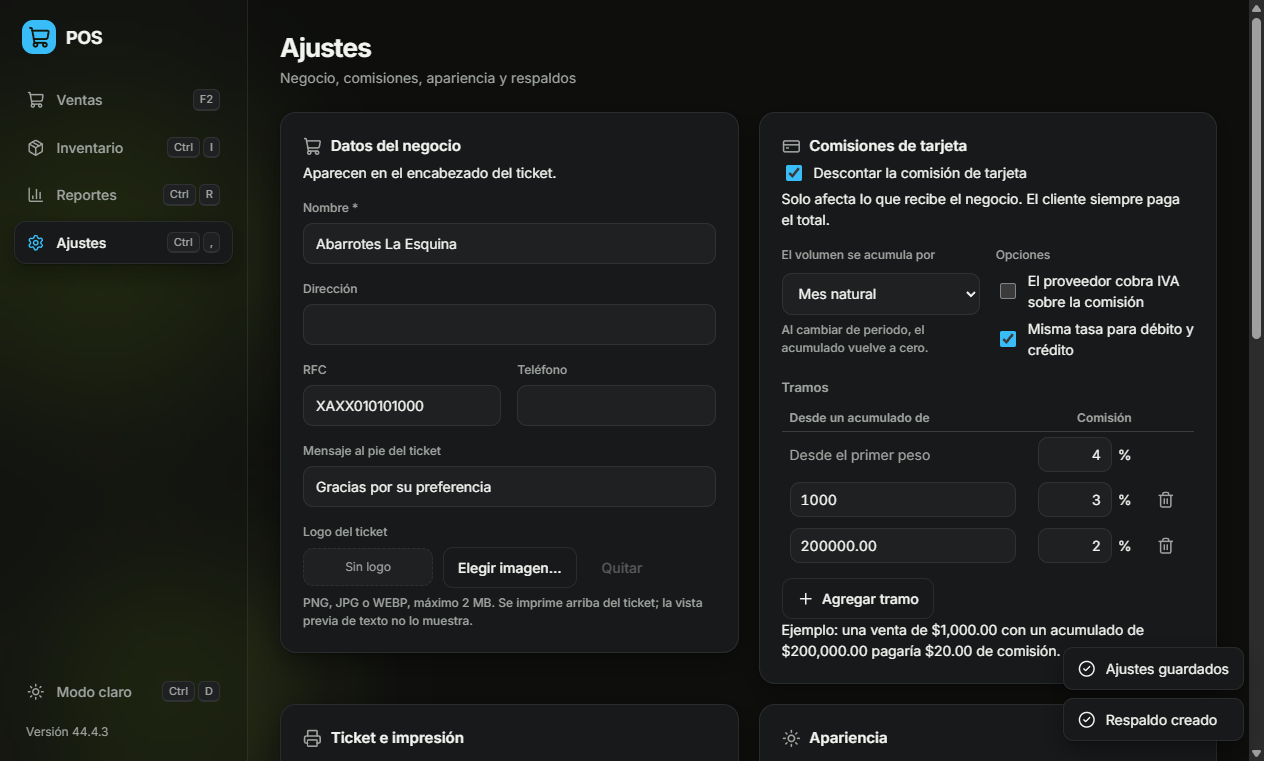
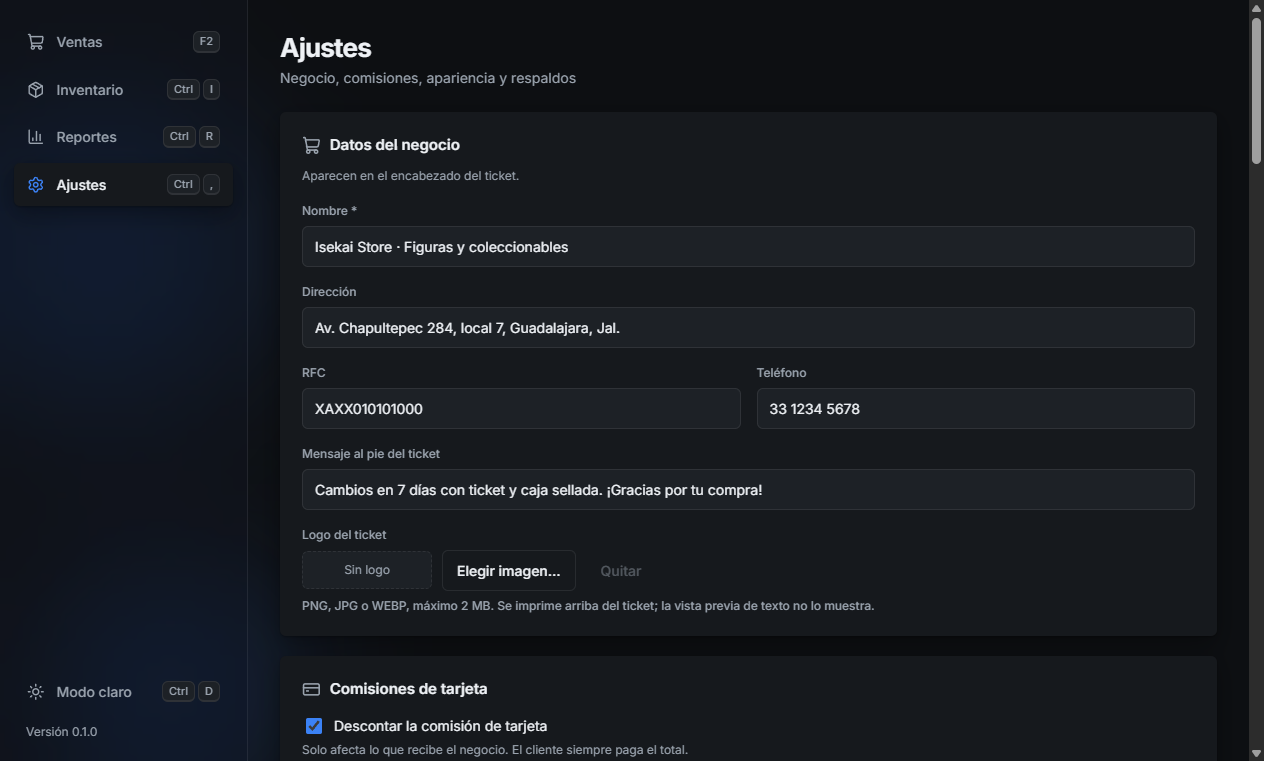
Capturas nuevas del README y cifras que caben en Reportes
Las capturas eran de la semilla de pruebas y decían «Versión 44.4.3» (la de
Electron). `npm run capturas` las rehace sobre la tienda de ejemplo.

A 1280×800 los grupos de tarjetas de Reportes se juntaban y las cifras de seis
dígitos se salían de la tarjeta. Ahora solo se ponen lado a lado si caben, y el
número se encoge con la tarjeta.

diff --git a/scripts/capturas.js b/scripts/capturas.js
@@ -1,0 +1,62 @@
+// Rehace las capturas del README sobre la tienda de ejemplo.
+// Uso: npm run capturas   (genera la tienda con `demo.js datos` y luego corre esto)
+//
+// No es una prueba: no afirma nada, solo recorre las pantallas y las guarda en docs/.
+// Usa `.demo-data/` y nunca los datos reales.
+import electron from 'electron'
+import { readFileSync, writeFileSync } from 'node:fs'
+import { join } from 'node:path'
+import { bootApp, setup, sleep, fail } from './smoke-lib.js'
+
+const raiz = join(import.meta.dirname, '..')
+const docs = join(raiz, 'docs')
+
+// Lanzada como script, Electron no encuentra el package.json y `app.getVersion()` devuelve
+// su propia versión: el pie de la barra lateral decía «Versión 44.4.3».
+const { version } = JSON.parse(readFileSync(join(raiz, 'package.json'), 'utf8'))
+electron.app.setVersion(version)
+
+process.env.POS_DATA_DIR = join(raiz, '.demo-data')
+process.env.POS_SEED = '0' // la tienda ya viene llena: la semilla de pruebas se mezclaría con ella
+
+await bootApp(import.meta.dirname)
+
+electron.app.whenReady().then(async () => {
+  const { win, run, waitFor, key } = await setup({ prefix: 'capturas' })
+
+  const guardar = async (nombre) => {
+    await sleep(400) // que termine la animación de entrada
+    writeFileSync(join(docs, `${nombre}.png`), (await win.webContents.capturePage()).toPNG())
+    console.log(`  docs/${nombre}.png`)
+  }
+
+  // ── Ventas: un carrito como los de la tienda, una figura y sus accesorios ──
+  for (const code of ['889698722193', '7502260410015', '9786075295473']) {
+    await run(`(() => {
+      const s = document.querySelector('#scan')
+      s.focus(); s.value = ${JSON.stringify(code)}
+      s.dispatchEvent(new KeyboardEvent('keydown', { key: 'Enter', bubbles: true }))
+    })()`)
+  }
+  await waitFor(`document.querySelectorAll('.cart-row').length === 3`, 'tres líneas en el carrito')
+  await guardar('ventas')
+
+  await key('i', { ctrlKey: true })
+  await waitFor(`document.querySelectorAll('#inv-rows tr').length > 10`, 'Ctrl+I con el catálogo')
+  await guardar('inventario')
+
+  // El rango por omisión es hoy; el mes entero llena los gráficos.
+  await key('r', { ctrlKey: true })
+  await waitFor(`document.querySelector('[data-preset="mes"]')`, 'Ctrl+R abre Reportes')
+  await run(`document.querySelector('[data-preset="mes"]').click()`)
+  await waitFor(`document.querySelector('#r-from').value.endsWith('-01')`, 'rango de este mes')
+  // Las tarjetas de hoy ya estaban puestas: esperarlas no dice que llegaron las del mes.
+  await sleep(1000)
+  await guardar('reportes')
+
+  await key(',', { ctrlKey: true })
+  await waitFor(`document.querySelector('#s-business')`, 'Ctrl+, abre Ajustes')
+  await guardar('ajustes')
+
+  electron.app.exit(0)
+}).catch(fail)

diff --git a/src/renderer/styles/reports.css b/src/renderer/styles/reports.css
@@ -62,8 +62,10 @@
   margin-bottom: 30px;
 }
 
+/* Dos grupos lado a lado solo si a cada tarjeta le cabe una cifra de seis dígitos.
+   Con 340px se juntaban a 1280×800 y «$105,561.00» se salía de la tarjeta. */
 .card-group {
-  flex: 1 1 340px;
+  flex: 1 1 560px;
 }
 
 /* La nota de las líneas sin costo cuelga del grupo, no de una tarjeta. */
@@ -86,6 +88,7 @@
   border-radius: var(--radius);
   box-shadow: var(--shadow);
   overflow: hidden;
+  container-type: inline-size;
 }
 
 /* El icono es un apoyo, no un dato: se asoma por la esquina en vez de competir
@@ -123,8 +126,9 @@
   color: var(--text-muted);
 }
 
+/* Se encoge con la tarjeta: un mes de siete dígitos no debe recortarse. */
 .report-card strong {
-  font-size: 21px;
+  font-size: clamp(15px, 13cqi, 21px);
   font-weight: 700;
   letter-spacing: -0.02em;
   font-variant-numeric: tabular-nums;

diff --git a/README.md b/README.md
@@ -190,6 +190,7 @@ POS_SEED=1 npm run dev
 |---|---|
 | `npm run dev` | Arranca la app con recarga en caliente |
 | `npm run demo` | Llena una tienda de ejemplo y abre la app con ella |
+| `npm run capturas` | Rehace las capturas de `docs/` sobre la tienda de ejemplo |
 | `npm run build` | Compila a `out/` |
 | `npm run dist` | Genera el instalador y la versión portable en `release/` |
 | `npm test` | Pruebas de la lógica de negocio y la capa de datos |
